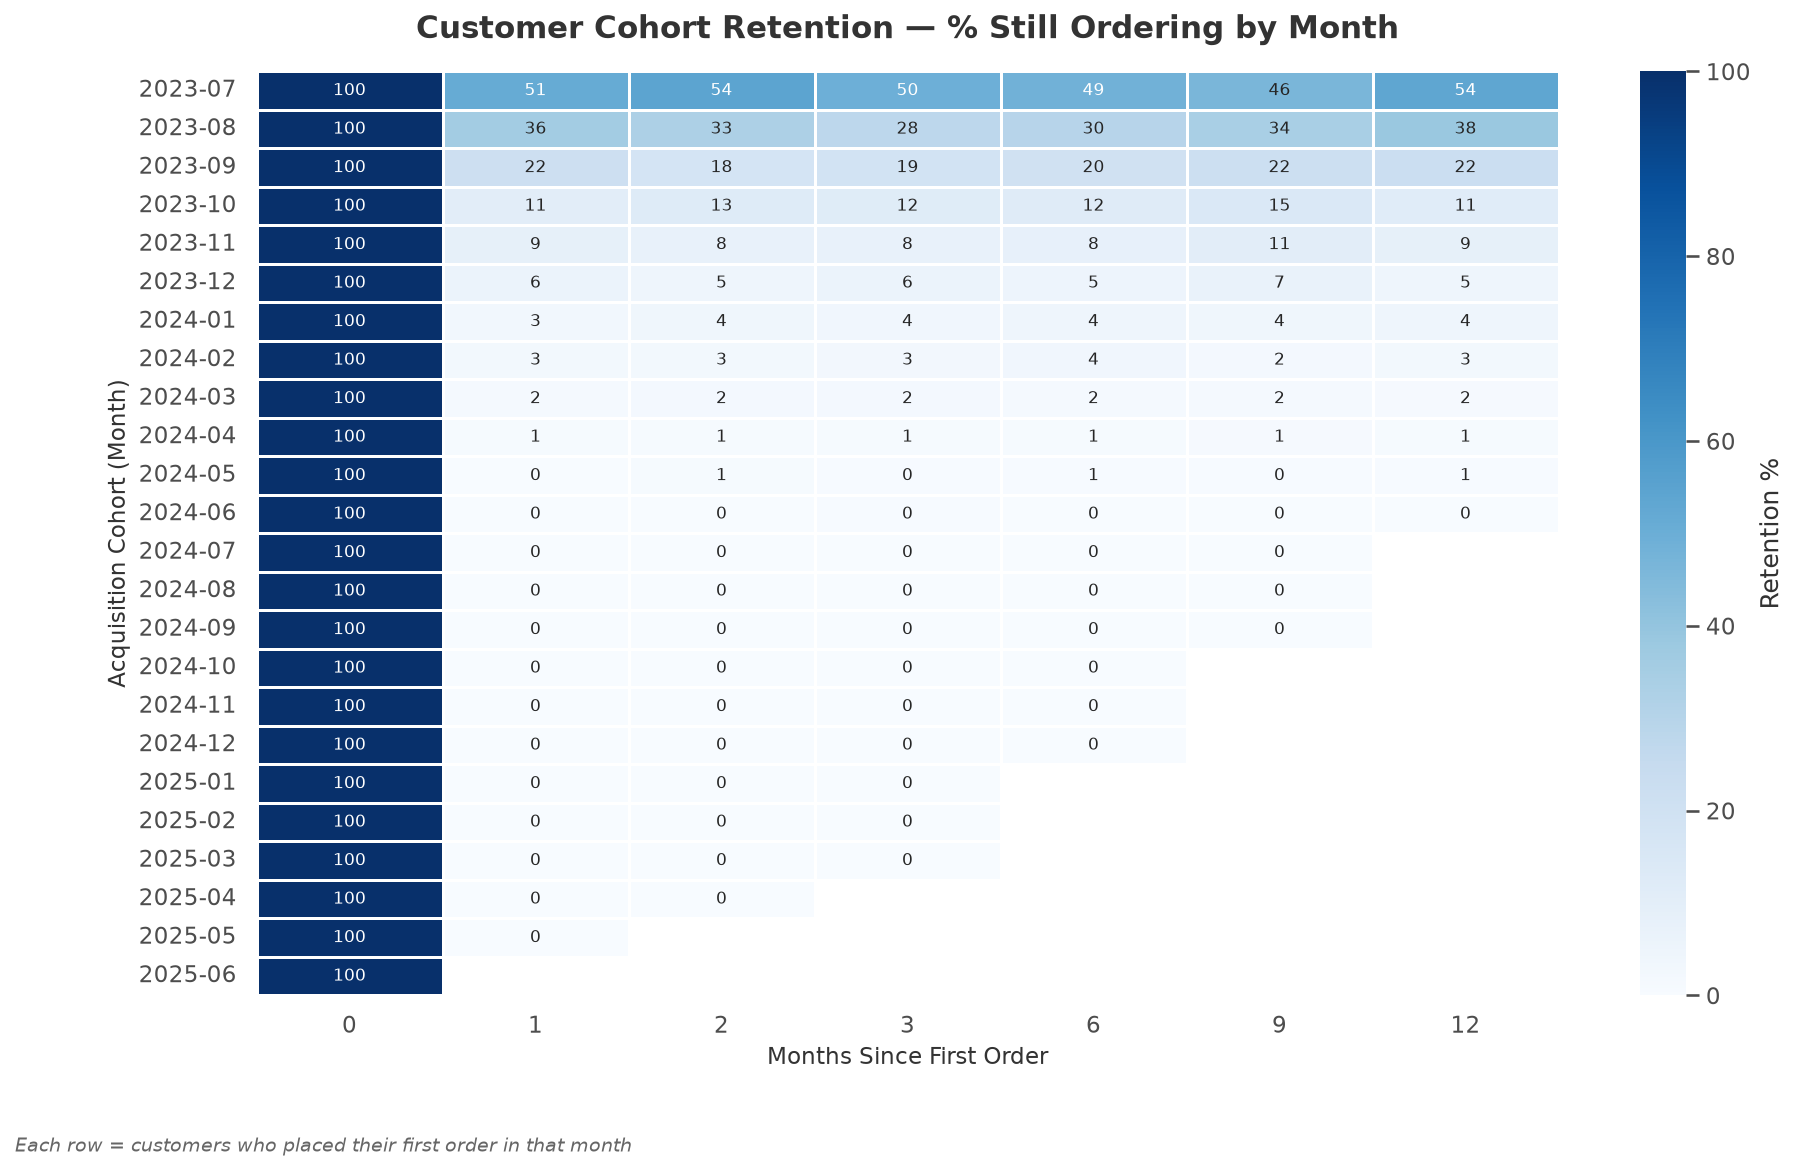
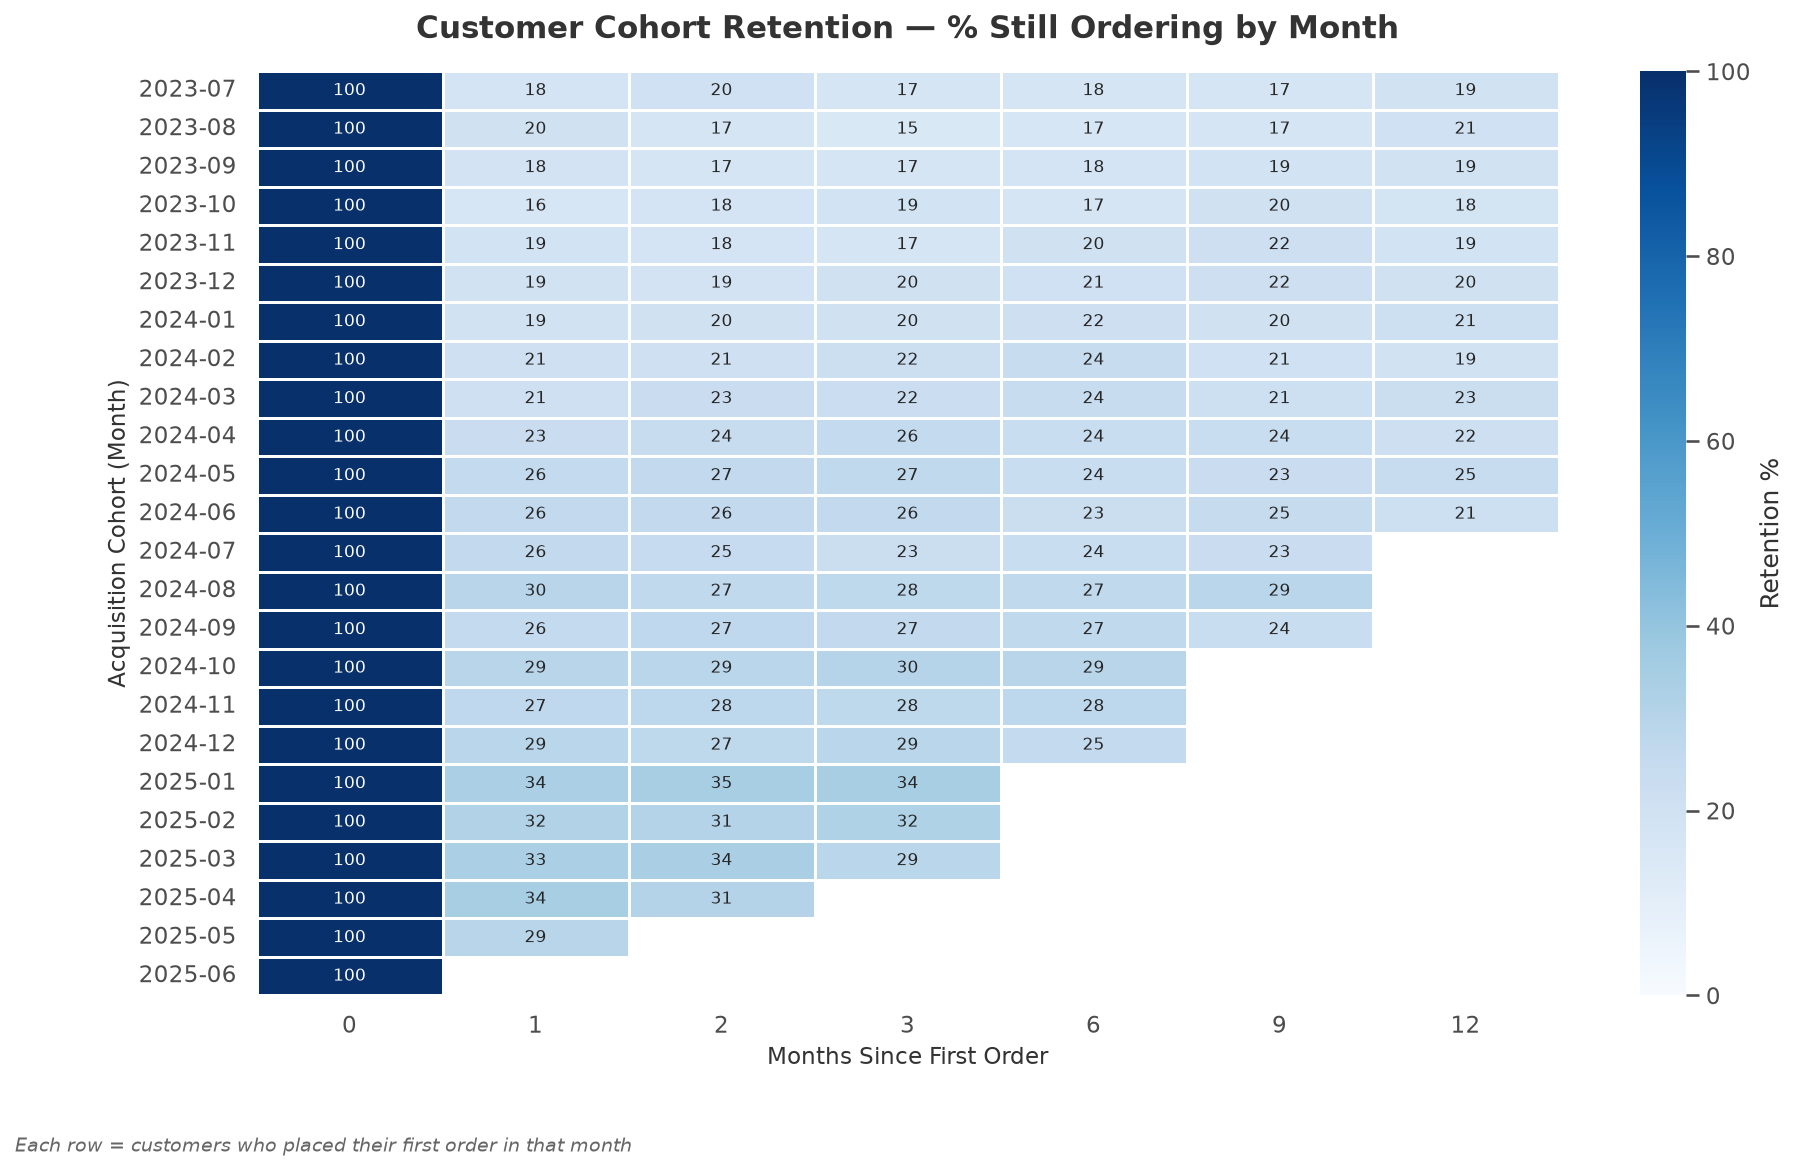
fix: cohort assignment bias — signup date now independent of order frequency, orders generated forward from signup date

Changed region(s): [[0.249, 0.2152, 0.8716, 0.8301], [0.249, 0.0615, 0.8716, 0.1537]]

diff --git a/generate_data.py b/generate_data.py
@@ -97,14 +97,20 @@ def generate_customers():
     city = rng.choice(CITIES, size=n)
     channel = rng.choice(ACQUISITION_CHANNELS, size=n, p=CHANNEL_WEIGHTS)
 
-    # signup_date / cohort_month are filled in later, once each customer's
-    # order dates are known (signup = shortly before their first order)
+    # CHANGE 1: signup_date is drawn uniformly across the full 24-month window,
+    # independent of order_count/loyalty (order_count is assigned later in
+    # assign_order_counts). cohort_month is derived from signup_date.
+    window_days = (END_DATE - START_DATE).days
+    signup_offset_days = rng.integers(0, window_days + 1, size=n)
+    signup_date = START_DATE + pd.to_timedelta(signup_offset_days, unit="D")
+    cohort_month = signup_date.to_period("M").astype(str)  # CHANGE 3
+
     customers_df = pd.DataFrame({
         "customer_id": customer_id,
-        "signup_date": pd.NaT,
+        "signup_date": signup_date.strftime("%Y-%m-%d"),
         "acquisition_channel": channel,
         "city": city,
-        "cohort_month": "",
+        "cohort_month": cohort_month,
     })
 
     # ---- latent traits (internal use only, not exported) ----
@@ -126,6 +132,7 @@ def generate_customers():
 
     latent = pd.DataFrame({
         "customer_id": customer_id,
+        "signup_date": signup_date,
         "base_loyalty": base_loyalty,
         "delay_affinity": delay_affinity,
         "discount_affinity": discount_affinity,
@@ -222,7 +229,19 @@ def build_day_weights():
 
 
 DATES, DAY_WEIGHTS = build_day_weights()
-DAY_PROBS = DAY_WEIGHTS / DAY_WEIGHTS.sum()
+
+
+def sample_forward_dates(start_date: pd.Timestamp, n_dates: int) -> np.ndarray:
+    """Sample n_dates order dates in [start_date, END_DATE], weighted by the
+    same seasonality curve used everywhere else (never looking backward)."""
+    start_idx = DATES.searchsorted(start_date)
+    valid_dates = DATES[start_idx:]
+    valid_weights = DAY_WEIGHTS[start_idx:]
+    if len(valid_dates) == 0:
+        valid_dates = DATES[-1:]
+        valid_weights = DAY_WEIGHTS[-1:]
+    probs = valid_weights / valid_weights.sum()
+    return rng.choice(valid_dates, size=n_dates, replace=True, p=probs)
 
 
 # --------------------------------------------------------------------------
@@ -239,26 +258,38 @@ HOUR_WEIGHTS = HOUR_WEIGHTS / HOUR_WEIGHTS.sum()
 
 
 def generate_orders(customers_df, restaurants_df, latent):
-    order_customer_ids = np.repeat(latent["customer_id"].to_numpy(), latent["order_count"].to_numpy())
-    order_discount_affinity = np.repeat(latent["discount_affinity"].to_numpy(), latent["order_count"].to_numpy())
-    order_spend_multiplier = np.repeat(latent["spend_multiplier"].to_numpy(), latent["order_count"].to_numpy())
-    order_delay_affinity = np.repeat(latent["delay_affinity"].to_numpy(), latent["order_count"].to_numpy())
+    n = len(latent)
+    customer_ids = latent["customer_id"].to_numpy()
+    order_counts = latent["order_count"].to_numpy()
+    signup_dates = pd.DatetimeIndex(latent["signup_date"])
 
-    total_orders = len(order_customer_ids)
+    # CHANGE 2: first order date = signup_date + randint(0, 7) days. Subsequent
+    # orders are generated forward from there (never drawn i.i.d. across the
+    # full window).
+    first_order_offset = rng.integers(0, 8, size=n)  # 0-7 days
+    first_order_date = (signup_dates + pd.to_timedelta(first_order_offset, unit="D")).to_numpy()
 
-    # draw order dates i.i.d. from the global seasonality distribution (weekend +
-    # Jul-Sep uplift baked into DAY_PROBS), then sort chronologically within each
-    # customer. Because draws are i.i.d., every customer segment (incl. one-time
-    # buyers) reproduces the same global seasonal mix - no artificial growth ramp.
-    order_dates = rng.choice(DATES, size=total_orders, replace=True, p=DAY_PROBS)
+    all_customer_id_chunks = []
+    all_date_chunks = []
+    for i in range(n):
+        n_orders = order_counts[i]
+        first_date = pd.Timestamp(first_order_date[i])
+        if n_orders > 1:
+            extra_dates = sample_forward_dates(first_date, n_orders - 1)
+            dates_i = np.sort(np.concatenate([[np.datetime64(first_date)], extra_dates]))
+        else:
+            dates_i = np.array([np.datetime64(first_date)])
+        all_customer_id_chunks.append(np.repeat(customer_ids[i], n_orders))
+        all_date_chunks.append(dates_i)
 
-    tmp = pd.DataFrame({
-        "customer_id": order_customer_ids,
-        "order_date": order_dates,
-        "discount_affinity": order_discount_affinity,
-        "spend_multiplier": order_spend_multiplier,
-        "delay_affinity": order_delay_affinity,
-    }).sort_values(["customer_id", "order_date"], kind="mergesort").reset_index(drop=True)
+    all_customer_ids = np.concatenate(all_customer_id_chunks)
+    all_dates = np.concatenate(all_date_chunks)
+
+    tmp = pd.DataFrame({"customer_id": all_customer_ids, "order_date": all_dates}).merge(
+        latent[["customer_id", "discount_affinity", "spend_multiplier", "delay_affinity"]],
+        on="customer_id", how="left",
+    )
+    tmp = tmp.sort_values(["customer_id", "order_date"], kind="mergesort").reset_index(drop=True)
 
     total_orders = len(tmp)
     order_id = np.array([f"O{i:08d}" for i in range(total_orders)])
@@ -297,25 +328,6 @@ def generate_orders(customers_df, restaurants_df, latent):
     })
 
     return orders_df, helper
-
-
-def finalize_customer_signup(customers_df, orders_df):
-    """Derive signup_date/cohort_month from each customer's first observed order."""
-    first_order = orders_df.groupby("customer_id")["order_date"].min()
-    first_order = pd.to_datetime(first_order)
-    offset_days = rng.integers(0, 11, size=len(first_order))
-    signup_date = first_order - pd.to_timedelta(offset_days, unit="D")
-    signup_date = signup_date.clip(lower=START_DATE)
-
-    customers_df = customers_df.drop(columns=["signup_date", "cohort_month"]).merge(
-        signup_date.rename("signup_date"), left_on="customer_id", right_index=True, how="left"
-    )
-    # customers with no generated orders (should not happen given order_count>=1) fall back to START_DATE
-    customers_df["signup_date"] = customers_df["signup_date"].fillna(START_DATE)
-    customers_df["cohort_month"] = customers_df["signup_date"].dt.to_period("M").astype(str)
-    customers_df["signup_date"] = customers_df["signup_date"].dt.strftime("%Y-%m-%d")
-    customers_df = customers_df[["customer_id", "signup_date", "acquisition_channel", "city", "cohort_month"]]
-    return customers_df
 
 
 # --------------------------------------------------------------------------
@@ -594,11 +606,8 @@ def main():
     print("Assigning repeat-order behavior...")
     latent = assign_order_counts(latent)
 
-    print("Generating orders (dates, seasonality, restaurant assignment)...")
+    print("Generating orders (signup-forward dates, seasonality, restaurant assignment)...")
     orders_df, helper = generate_orders(customers_df, restaurants_df, latent)
-
-    print("Deriving signup dates from first orders...")
-    customers_df = finalize_customer_signup(customers_df, orders_df)
 
     print("Generating order items and order value totals...")
     orders_df, order_items_df = generate_order_items(orders_df, helper)
